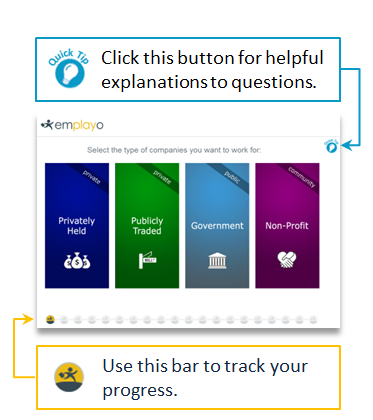
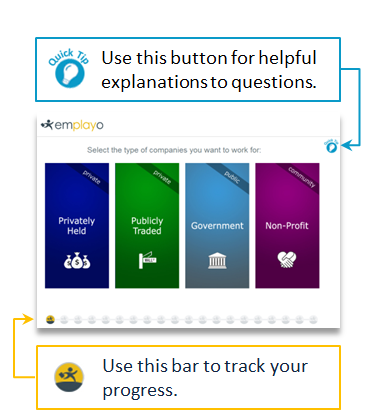
Updated instructional modal for each of the 20 questions.

Changed region(s): [[0.2654, 0.0929, 0.8847, 0.1857]]

diff --git a/assets/css/view.css b/assets/css/view.css
@@ -119,6 +119,16 @@ div#story .content{
 	font-weight: bold;
 }
 
+.modal_popup span{
+	color: #258CD1;
+	font-weight: bold;
+}
+
+.modal_popup .intro{
+	color: #e9b60b;
+	font-weight: bold;
+}
+
 .modal_popup img{
 	float: right;
 	margin-left: 20px;
@@ -140,6 +150,11 @@ div.hints {
     text-align: center;
     width: 200px;
 }
+
+div.hints div {
+    display: none;
+}
+
 
 area{
 	outline: none;

diff --git a/application/views/_criteria.php b/application/views/_criteria.php
@@ -6,6 +6,93 @@
 		<div><span>Government</span><br>The public sector has a reputation for stability and job security, as well as a slower pace than private companies.  There can be a high level of taxpayer scrutiny, so red tape and bureaucratic procedures are common.</div>
 		<div><span>Non-Profit</span><br>Non-profits are a good option for people who really want to make a difference in the lives of others.  Compensation and perks may not be as high as for-profit businesses.</div>
 	</div>
+	<div class="modal_popup" id="modal_q2">
+		<div class="intro">Pace is an indicator of life inside a company.  Think of it like life in the big city versus life in the country.</div>
+		<div><span>Slower Pace</span><br>More predictable and stable work environment, with a slower business and/or industry lifecycle (e.g. research laboratory).  This could translate to less stress in the workplace and/or boredom, depnding on your perspective.</div>
+		<div><span>Medium Pace</span><br>A balance of planned and unplanned deadlines.  Some days are fast-paced, while others allow you to catch your breath.</div>
+		<div><span>Face Pace</span><br>Tighter deadlines, more pressure, and a shorter business and/or industry lifecycle (e.g. journalism).  This could be the jolt of excitement you need, or the job you dread daily if it isn't suited to you.</div>
+	</div>
+	<div class="modal_popup" id="modal_q3">
+		<div><span>Start Up | Co-Founders</span><br>You're interested in joining forces with others to start a business from scratch. Highest risk of success and highest potential for reward.</div>
+		<div><span>Start Up | First Employees</span><br>You're interested in getting in on the ground floor as one of the first employees of a company. The risk is still somewhat high, and the chance for equity is still good.</div>
+		<div><span>Rapid Growth</span><br>Once a startup begins to gain significant traction, it enters the Rapid Growth phase.  The risk of success has been reduced slightly, but there is still a ways to go to achieve maturity and stability.</div>
+		<div><span>Maturity</span><br>A solid company structure is in place, long term investments are being made, and financial statements are strong.  The company will be around for a while.</div>
+		<div><span>Rebirth</span><br>If a mature company declines, it will tend to have lower stock prices and significant employee attrition.  Joining a company at this stage entails moderate risk and reward, but with a stable infrastructure, greater resources, and a solid history of performance.</div>
+	</div>	
+	<div class="modal_popup" id="modal_q4">
+		<div class="intro">Use drag and drop to rank/order your items on the list.</div>
+		<div>Companies offer various benefits and perks to keep employees productive, healthy, and happy.  Rank your 'must have' benefits at the top and your 'nice to have' benefits at the bottom.</div>
+	</div>
+	<div class="modal_popup" id="modal_q5">
+		<div><span>Corporate Citizenship</span> is a term used to describe a company's role and responsibilities towards society (e.g., charitable giving, environmental concerns, etc.)</div>
+	</div>	
+	<div class="modal_popup" id="modal_q6">
+		<div>Certain jobs will require you travel for business purposes.  Locations, durations, and frequency can vary significantly depending on the company and job role.  If you like to travel, then it's time to rake up the frequent flyer miles.  Otherwise, this could put a damper on your family and/or personal life.</div>
+	</div>	
+	<div class="modal_popup" id="modal_q7">
+		<div>Some jobs offer the ability to move into new roles and assignments on a regular basis, offering a chance to learn and do something new.  Other jobs focus more on gaining deep expertise in a single area over time.</div>
+	</div>	
+	<div class="modal_popup" id="modal_q8">
+		<div class="intro">Use drag and drop to rank/order your items on the list.</div>
+		<div><span>Business Need</span><br>A spot opened up, or the company has hired so many new people that it needs more supervisors/managers.</div>
+		<div><span>Time at Level</span><br>You've put in the time, now it's your turn to be in the sweet spot.</div>
+		<div><span>Skills Qualification</span><br>You are able to do the job well and have the required certifications, degrees, training, and knowledge.</div>
+		<div><span>Increased Responsibilities</span><br>You have demonstrated the ability to do your job and take on other responsibilities.</div>
+		<div><span>Leadership Readiness</span><br>You have displayed the characteristics required to lead and be successful in the new role.</div>
+		<div><span>Job Performance Compared to Peers</span><br>You are the top performer based on quality and outcome of work products and deliverables.</div>
+	</div>	
+	<div class="modal_popup" id="modal_q9">
+		<div>Choose one of the two choices presented that best match your work environment preferences.</div>
+	</div>	
+	<div class="modal_popup" id="modal_q10">
+		<div class="intro">Use drag and drop to rank/order your items on the list.</div>
+		<div>There are many ways to be rewarded for a job well done. Rank your most preferred method of recognition on the top of the list.</div>
+	</div>	
+	<div class="modal_popup" id="modal_q11">
+		<div class="intro">Workplace politics are inevitible - you can't completely avoid them.  You can, however, control how you think about them.</div>
+		<div><span>Rumors Sometimes Lead to Useful Information</span><br>This is similar to keeping your finger on the pulse of the organization, and keeping up with the watercooler chatter.</div>
+		<div><span>Building Alliances Is Key</span><br>Building alliances involves developing relationships with other employees at various levels.  With a strong network of allies, you can be protected even when your back is turned.</div>
+		<div><span>Keep Your Friends Close and Your Enemies Closer</span><br>Keep tabs on people around you so you can avoid being blindsided by those with an agenda.</div>
+		<div><span>It's a Battlefield, But I Know How To Avoid Landmines</span><br>It takes skill to understand the terrain and avoid costly political missteps.</div>
+		<div><span>Keep Your Head Down and Your Nose to the Grindstone</span><br>Mind your business and focus on your job.  Don't get involved in workplace politics even if everyone else is.</div>
+	</div>	
+	<div class="modal_popup" id="modal_q12">
+		<div class="intro">Use drag and drop to rank/order your items on the list.</div>
+		<div>We all have differerent preferences and skillsets.  Some of us are more interested in working with the community, while others prefer using their creativity.  By using more of your natural strengths at work, you'll make it more enjoyable.</div>
+	</div>	
+	<div class="modal_popup" id="modal_q13">
+		<div>When you have a conversation, what is your usual communication style?</div>
+	</div>	
+	<div class="modal_popup" id="modal_q14">
+		<div class="intro">Use drag and drop to rank/order your items on the list.</div>
+		<div>If you don't know something, you will naturally take steps to find the answer.  What is your usual process, in order of your first option to last?</div>
+	</div>	
+	<div class="modal_popup" id="modal_q15">
+		<div>What do you want and expect from your ideal supervisor?</div>
+	</div>	
+	<div class="modal_popup" id="modal_q16">
+		<div>We've all been there... that inner voice telling us what to do.  Sometimes you go with it, sometimes you ignore it and do something else.  How has that worked out for you? </div>
+	</div>	
+	<div class="modal_popup" id="modal_q17">
+		<div>If someone makes inappropriate comments in the workplace, how would you respond?</div>
+	</div>	
+	<div class="modal_popup" id="modal_q18">
+		<div class="intro">If you were in a position of leadership, which of the following would most closely match your leadership style?</div>
+		<div><span>Open Dialogue</span><br>Direction comes from the top, but the lines of communication remain open for questions, comments, and feedback from workers.</div>
+		<div><span>Group Facilitation</span><br>Management works with the team to generate the plan through an interactive brainstorming session.</div>
+		<div><span>Top-Down Directive</span><br>A clear and non-negotiable plan is delivered to the team from management.</div>
+	</div>	
+	<div class="modal_popup" id="modal_q19">
+		<div>What are the characteristics of the kind of people you like to be around, especially in a work setting?</div>
+	</div>	
+	<div class="modal_popup" id="modal_q20">
+		<div class="intro">What's the most important aspect of your work?</div>
+		<div><span>With people I like to be around</span><br>The most important thing to you is working with a great team of people that you get along with and likely spend time with outside of work.</div>
+		<div><span>On things I am passionate about</span><br>What you work on is the most important thing to you.  Money and prestige are lower in priority.</div>
+		<div><span>Where I can make lots of money</span><br>The amount of money you make is your main motivator.  You'd be willing to do something you aren't passionate about, or work with a team that isn't that great, as long as the money is good.</div>
+		<div><span>At a reputable company</span><br>You want to be associated with a company that is well known, successful, and impressive.  You want to be proud to tell people where you work.</div>
+		<div><span>To live not live to work</span><br>Your life is not centered around or defined by your job.  You merely work to pay your bills; your focus is outside of work</div>
+	</div>	
 	<div class="content">
 		<div id="0" class="questions">
 			<div id="intro">
@@ -42,7 +129,7 @@
 			<input type="hidden" name="q1d" value="0" />
 		</div>
 		<div id="2" class="questions" name="multipleChoice">
-			<div><div class="bulb"></div>Select the pace of the company you want to work in:</div>
+			<div><div class="bulb" onclick="modal('#modal_q2','600','35');"></div>Select the pace of the company you want to work in:</div>
 			<ul id="co_pace">
 				<li id="q2a">Slow</li>
 				<li id="q2b">Medium</li>
@@ -53,7 +140,7 @@
 			<input type="hidden" name="q2c" value="0" />
 		</div>
 		<div id="3" class="questions" name="multipleChoice">
-			<div><div class="bulb"></div>Select the life cycle of the companies you want to work in:</div>
+			<div><div class="bulb" onclick="modal('#modal_q3','600','35');"></div>Select the life cycle of the companies you want to work in:</div>
 			<div id="co_cycle_header"></div>
 			<ul id="co_cycle">
 				<li id="q3a"></li>
@@ -69,7 +156,7 @@
 			<input type="hidden" name="q3e" value="0" />
 		</div>
 		<div id="4" class="questions" name="rankChoice">
-			<div><div class="bulb"></div>Rank the following company benefits &amp; perks you find important:</div>
+			<div><div class="bulb" onclick="modal('#modal_q4','600','35');"></div>Rank the following company benefits &amp; perks you find important:</div>
 			<div id="benefits_bar"></div>
 			<ul id="co_benefits">
 				<li id="q4_1"><span class="ui-icon ui-icon-grip-dotted-vertical"></span>Training</li>
@@ -93,7 +180,7 @@
 			<input type="hidden" name="qFour" value="0" />
 		</div>
 		<div id="5" class="questions" name="singleChoice">
-			<div><div class="bulb"></div>How important is corporate citizenship to you?</div>
+			<div><div class="bulb" onclick="modal('#modal_q5','600','35');"></div>How important is corporate citizenship to you?</div>
 			<div class="sliderSelected"></div>
 			<div id="citizenshipSlider" style="background: none; border: none; cursor: pointer;"></div>
 			<div class="slider5Markers">
@@ -108,7 +195,7 @@
 			<input type="hidden" name="q5" value="0" />
 		</div>
 		<div id="6" class="questions" name="singleChoice">
-			<div><div class="bulb"></div>How much traveling would you like to do for work?</div>
+			<div><div class="bulb" onclick="modal('#modal_q6','600','35');"></div>How much traveling would you like to do for work?</div>
 			<div class="sliderSelected"></div>
 			<div id="travelSlider" style="background: none; border: none; cursor: pointer;"></div>
 			<div class="slider5Markers">
@@ -123,7 +210,7 @@
 			<input type="hidden" name="q6" value="0" />
 		</div>
 		<div id="7" class="questions" name="singleChoice">
-			<div><div class="bulb"></div>How often do you want your roles &amp; responsibilities to change?</div>
+			<div><div class="bulb" onclick="modal('#modal_q7','600','35');"></div>How often do you want your roles &amp; responsibilities to change?</div>
 			<div class="sliderSelected"></div>
 			<div id="roleSlider" style="background: none; border: none; cursor: pointer;"></div>
 			<div class="slider4Markers">
@@ -137,7 +224,7 @@
 			<input type="hidden" name="q7" value="0" />
 		</div>
 		<div id="8" class="questions" name="rankChoice">
-			<div><div class="bulb"></div>Rank the following in order of importance for promotion eligibility:</div>
+			<div><div class="bulb" onclick="modal('#modal_q8','600','35');"></div>What should matter most to management in deciding on promotion?</div>
 			<div id="promotion_bar"></div>
 			<ul id="co_promotion">
 				<li id="q8_1"><span class="ui-icon ui-icon-grip-dotted-vertical"></span>Business Need</li>
@@ -150,7 +237,7 @@
 			<input type="hidden" name="q8" value="0" />
 		</div>
 		<div id="9" class="questions"  name="singleChoice">
-			<div><div class="bulb"></div>Select the work environment you thrive in:</div>
+			<div><div class="bulb" onclick="modal('#modal_q9','600','35');"></div>Which type of work environment allows you to do your best work?</div>
 			<div id="envQuestions">
 				<div id="q9_1" class="env">
 					<div class="envAnswer1">Supportive</div><div class="or">- or -</div><div class="envAnswer2">Independent</div>
@@ -210,7 +297,7 @@
 			<input type="hidden" name="q9_10" value="0" />
 		</div>
 		<div id="10" class="questions"  name="rankChoice">
-			<div><div class="bulb"></div>Rank your most preferred type of recognition for doing exceptional work:</div>
+			<div><div class="bulb" onclick="modal('#modal_q10','600','35');"></div>Rank your most preferred type of recognition for doing exceptional work:</div>
 			<div id="recognition_bar"></div>
 			<ul id="co_recognition">
 				<li id="q10_1"><span class="ui-icon ui-icon-grip-dotted-vertical"></span>Team Dinners</li>
@@ -223,7 +310,7 @@
 			<input type="hidden" name="q10" value="0" />
 		</div>
 		<div id="11" class="questions"  name="singleChoice">
-			<div><div class="bulb"></div>Pick one of the following views on workplace politics:</div>
+			<div><div class="bulb" onclick="modal('#modal_q11','600','35');"></div>Pick one of the following views on workplace politics:</div>
 			<div id="politics" class="clear">
 				<img id="politicsOverlay" src="<?php echo base_url() ?>assets/images/imgOverlay.png" alt="cloud" usemap="#politicsCloud" />
 				<map name="politicsCloud" id="politicsCloud">
@@ -237,7 +324,7 @@
 			<input type="hidden" name="q11" value="0" />
 		</div>
 		<div id="12" class="questions"  name="rankChoice">
-			<div><div class="bulb"></div>Rank the following type of tasks you typically enjoy working on:</div>
+			<div><div class="bulb" onclick="modal('#modal_q12','600','35');"></div>Rank the following type of tasks you typically enjoy working on:</div>
 			<div id="task_bar"></div>
 			<ul id="favTask">
 				<li id="q12_1"><span class="ui-icon ui-icon-grip-dotted-vertical"></span><font>Physical</font><br>skill, strength, coordination, accuracy</li>
@@ -250,7 +337,7 @@
 			<input type="hidden" name="q12" value="0" />			
 		</div>
 		<div id="13" class="questions"  name="singleChoice">
-			<div><div class="bulb"></div>When communicating ...</div>
+			<div><div class="bulb" onclick="modal('#modal_q13','600','35');"></div>When communicating ...</div>
 			<div id="communications" class="clear">
 				<img id="communicationOverlay" src="<?php echo base_url() ?>assets/images/imgOverlay.png" alt="cloud" usemap="#communicationCloud" />
 				<map name="communicationCloud" id="communicationCloud">
@@ -264,7 +351,7 @@
 			<input type="hidden" name="q13" value="0" />
 		</div>
 		<div id="14" class="questions"  name="rankChoice">
-			<div><div class="bulb"></div>If you don't know something about your job, what are the<br>steps you would take to find the answers?</div>
+			<div><div class="bulb" onclick="modal('#modal_q14','600','35');"></div>If you don't know something about your job, what are the<br>steps you would take to find the answers?</div>
 			<div id="steps_bar"></div>
 			<ul id="resource">
 				<li id="q14_1"><span class="ui-icon ui-icon-grip-dotted-vertical"></span>Search the Internet</li>
@@ -276,7 +363,7 @@
 			<input type="hidden" name="q14" value="0" />	
 		</div>
 		<div id="15" class="questions"  name="singleChoice">
-			<div><div class="bulb"></div>Which of the following is most effective role of a supervisor:</div>
+			<div><div class="bulb" onclick="modal('#modal_q15','600','35');"></div>Which of the following is most effective role of a supervisor:</div>
 			<div id="supervisor" class="clear">
 				<img id="supervisorOverlay" src="<?php echo base_url() ?>assets/images/imgOverlay.png" alt="cloud" usemap="#supervisorCloud" />
 				<map name="supervisorCloud" id="supervisorCloud">
@@ -291,7 +378,7 @@
 			<input type="hidden" name="q15" value="0" />
 		</div>
 		<div id="16" class="questions" name="singleChoice">
-			<div><div class="bulb"></div>When you ignore a strong gut feel<br>that's trying to tell you something, you tend to regret it later on.</div>
+			<div><div class="bulb" onclick="modal('#modal_q16','600','35');"></div>When you ignore a strong gut feel<br>that's trying to tell you something, you tend to regret it later on.</div>
 			<div id="intuition">
 				<div id="true" class="true_false">True</div>
 				<div id="false" class="true_false">False</div>
@@ -299,7 +386,7 @@
 			<input type="hidden" name="q16" value="0" />
 		</div>
 		<div id="17" class="questions" name="singleChoice">
-			<div><div class="bulb"></div>When someone makes inappropriate or derogatory remarks, you typically ...</div>
+			<div><div class="bulb" onclick="modal('#modal_q17','600','35');"></div>When someone makes inappropriate or derogatory remarks, you typically ...</div>
 			<div id="respect" class="clear">
 				<img id="respectOverlay" src="<?php echo base_url() ?>assets/images/imgOverlay.png" alt="cloud" usemap="#respectCloud" />
 				<map name="respectCloud" id="respectCloud">
@@ -313,7 +400,7 @@
 			<input type="hidden" name="q17" value="0" />
 		</div>
 		<div id="18" class="questions" name="singleChoice">
-			<div><div class="bulb"></div>How would you effectively lead a team?</div>
+			<div><div class="bulb" onclick="modal('#modal_q18','600','35');"></div>How would you effectively lead a team?</div>
 			<div id="leadership" class="clear">
 				<img id="leadershipOverlay" src="<?php echo base_url() ?>assets/images/imgOverlay.png" alt="cloud" usemap="#leadershipCloud" />
 				<map name="leadershipCloud" id="leadershipCloud">
@@ -325,7 +412,7 @@
 			<input type="hidden" name="q18" value="0" />
 		</div>
 		<div id="19" class="questions" name="clickChoice">
-			<div><div class="bulb"></div>Pick the top 5 traits of people you enjoy being around:</div>
+			<div><div class="bulb" onclick="modal('#modal_q19','600','35');"></div>Pick the top 5 traits of people you enjoy being around:</div>
 			<div id="traits">				
 				<div>Competent</div>
 				<div>Patient</div>
@@ -351,7 +438,7 @@
 			<input type="hidden" name="q19" value="0" />
 		</div>
 		<div id="20" class="questions"  name="singleChoice">
-			<div><div class="bulb"></div>I want to work ________</div>
+			<div><div class="bulb" onclick="modal('#modal_q20','600','35');"></div>I want to work ________</div>
 			<div id="motivation" class="clear">
 				<img id="motivationOverlay" src="<?php echo base_url() ?>assets/images/imgOverlay.png" alt="cloud" usemap="#motivationCloud" />
 				<map name="motivationCloud" id="motivationCloud">

diff --git a/application/views/_home.php b/application/views/_home.php
@@ -2,8 +2,7 @@
 	<div id="banner">
 		<div class="content">
 			<div id="icon"></div>
-			<div id="start">Emplayo helps you find jobs<br>that fit you best.
-				<!--<a href="index.php/emplayo/criteria">Get Started</a>-->
+			<div id="start">Emplayo helps you find the companies<br>that fit you best.
                                 <a href="emplayo/criteria">Get Started</a>
 			</div>
 		</div>
